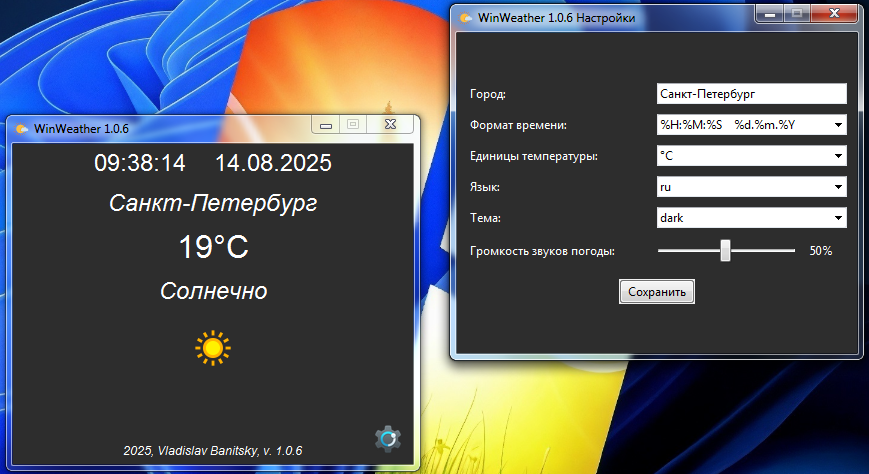
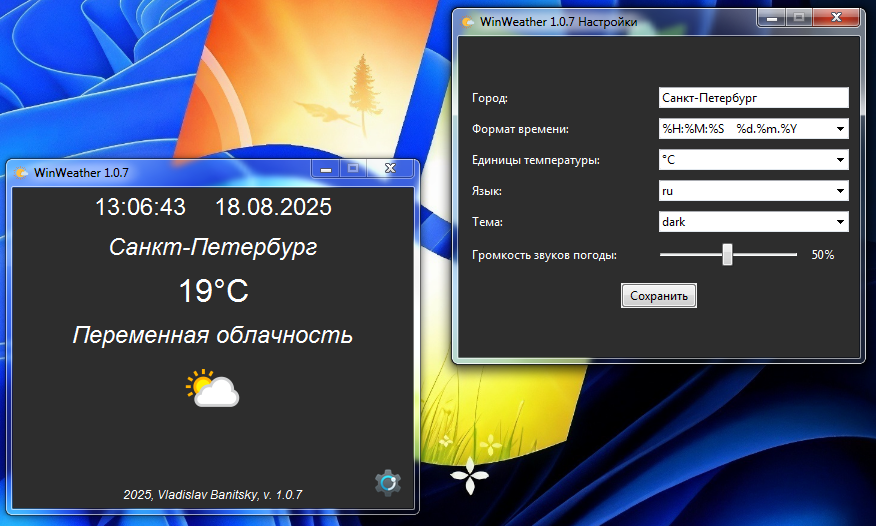
Improved auto theme

diff --git a/WinWeather.py b/WinWeather.py
@@ -9,7 +9,7 @@ import sys
 import os
 import pygame  # для работы со звуком
 from pygame import mixer
-import time  # для задержки заставки
+
 
 HEIGHT = 400
 WIDTH = 320
@@ -23,7 +23,7 @@ DEFAULT_SETTINGS = {
     "TEMP_UNIT": "°C",
     "TIME_FORMAT": "%H:%M:%S    %d.%m.%Y",
     "LANGUAGE": "ru",
-    "THEME": "light",
+    "THEME": "auto",
     "VOLUME": 0.5
 }
 
@@ -150,15 +150,15 @@ def resource_path(relative_path):
 
 # Функция для изменения темы
 def apply_theme(): 
-    global current_theme_name
+    global current_theme_name  # применяем изменения по всему интерфейсу
     
-    # Если тема не изменилась
-    if get_auto_theme() == THEME:
-        return  # ничего не делаем  
-    elif THEME == "auto":  # иначе тема автоматическая?
-        current_theme_name = get_auto_theme()  # тогда узнаём и применяем нужную
+    if THEME == "auto":  # тема автоматическая?
+        if current_theme_name == get_auto_theme():  # если текущая тема уже совпадает с необходимой
+            return  # ничего не делаем (экономия ресурсов)
+        else:  # иначе
+            current_theme_name = get_auto_theme()  # перерисовываем интерфейс в нужной теме
     else:  # иначе тема статическая
-        current_theme_name = THEME  # просто применяем статическую тему 
+        current_theme_name = THEME  # просто применяем статическую тему
     
     current_theme = THEMES[current_theme_name]
     
@@ -284,12 +284,8 @@ def open_settings():
     settings_window.iconbitmap(resource_path('WinWeather.ico'))
     settings_window.grab_set()  # блокировка основного окна, пока открыты настройки
     
-    # Применяем текущую тему к окну настроек
-    if THEME == "auto":  # тема автоматическая?
-        current_theme = THEMES[get_auto_theme()]  # тогда узнаём и применяем нужную
-    else:  # иначе тема статическая
-        current_theme = THEMES[THEME]  # просто применяем статическую тему 
-
+    # Применяем текущую тему к окну настроек   
+    current_theme = THEMES[current_theme_name] 
     settings_window.configure(bg=current_theme["bg"])
     
     # Улучшение стилей ползунка громкости звука
@@ -435,7 +431,7 @@ VOLUME = settings.get("VOLUME", 0.5)
 
 SOUND_INITIALIZED = init_sound()
 current_sound = None  # глобальная переменная для хранения текущего звука
-current_theme_name = THEME  # глобальная переменная для хранения темы
+current_theme_name = THEME  # глобальная переменная для хранения названия темы
 
 # Создаем главное окно
 root = tk.Tk()
@@ -446,11 +442,11 @@ root.iconbitmap(resource_path('WinWeather.ico'))
 
 # Применяем тему сразу после создания окна
 if THEME == "auto":  # тема автоматическая?
-    current_theme_name = get_auto_theme()  # тогда узнаём и применяем нужную
+    current_theme_name = get_auto_theme()  # тогда узнаём нужную
 else:  # иначе тема статическая
-    current_theme_name = THEME  # просто применяем статическую тему 
+    current_theme_name = THEME  # просто сохраняем статическую тему 
 
-current_theme = THEMES[current_theme_name]
+current_theme = THEMES[current_theme_name]  # получаем нужные цвета в глобальную переменную
 
 root.configure(bg=current_theme["bg"])
 
